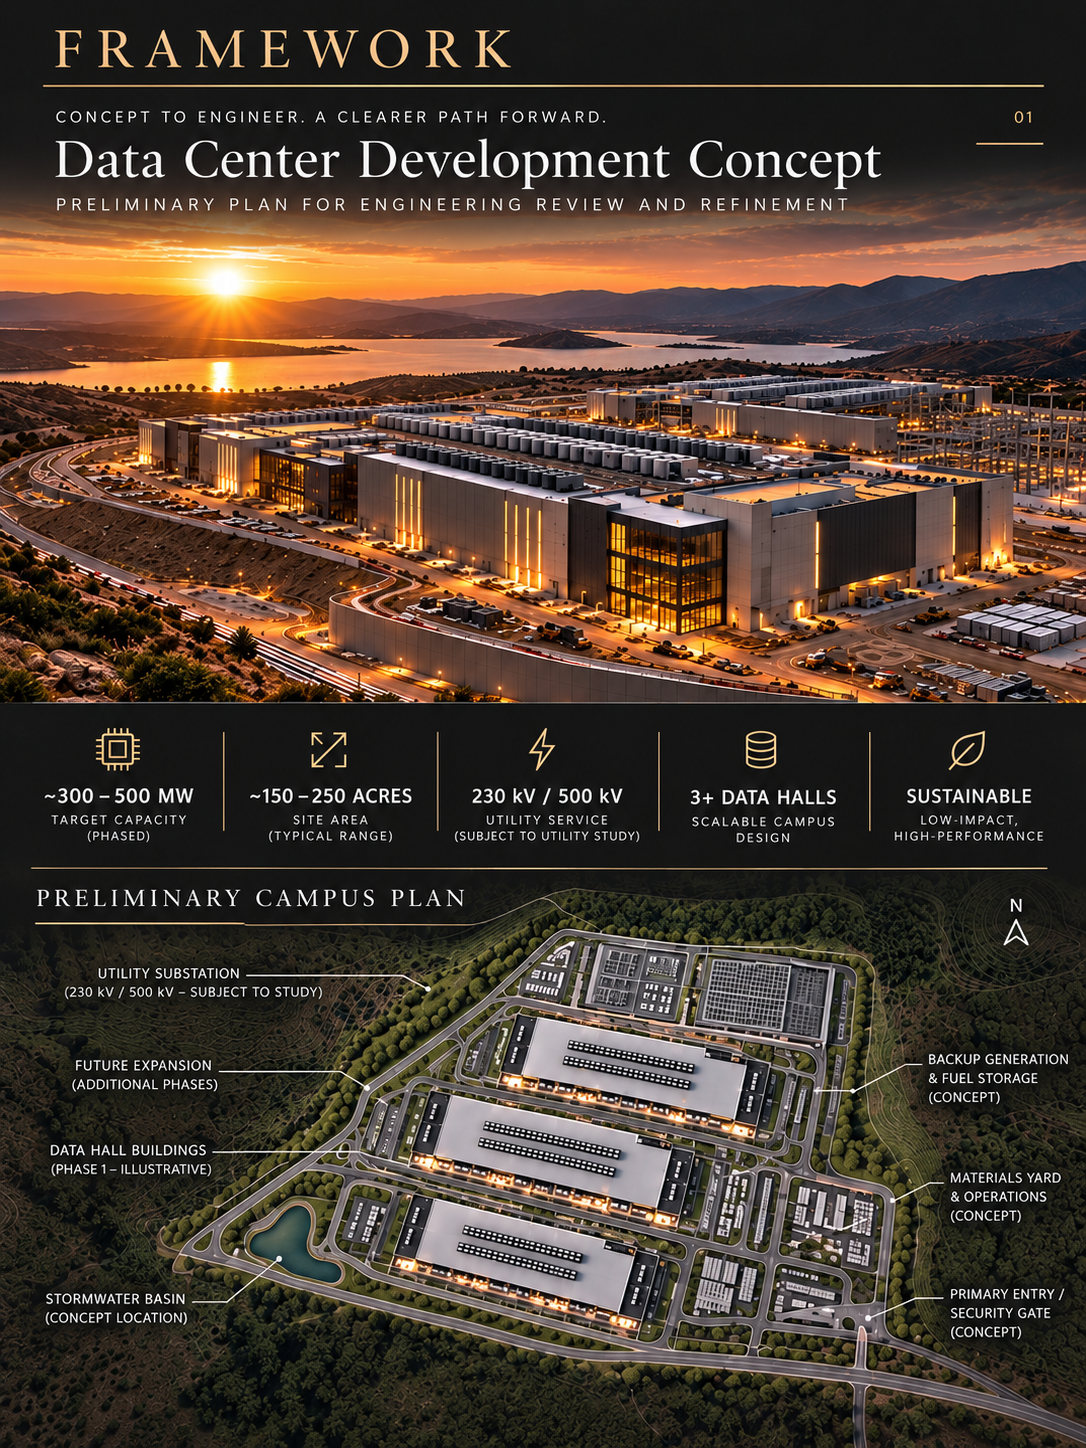
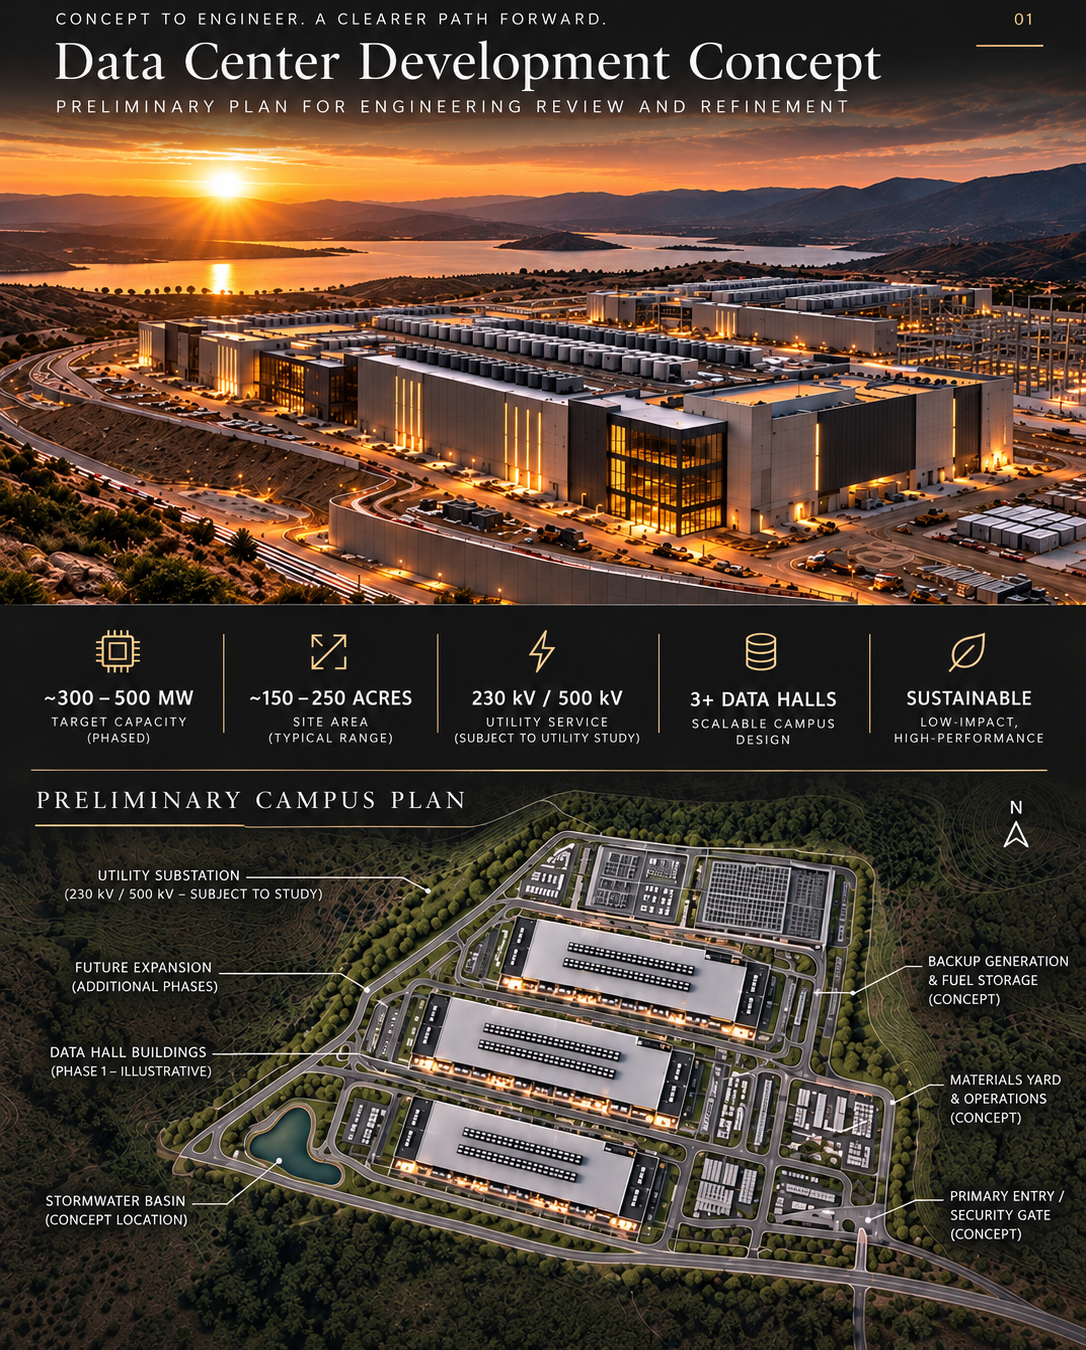
Crop Framework1 image and add section headings
Crop the redundant "FRAMEWORK" wordmark off the top of the Framework1
sample image (shared by the homepage and the Framework page), since
it's now replaced by live heading text: "Framework" / "Engineer ready
plans" above the image on both pages. Also add a small black
"Groundbreakable Intelligence" label above the homepage's Intelligence
preview section, matching the one already on intelligence.html.

diff --git a/index.html b/index.html
@@ -51,9 +51,30 @@
 
   .fw-sample{ padding:clamp(56px,8vw,96px) 32px; }
   .fw-sample-inner{ max-width:900px; margin:0 auto; }
+  .fw-sample-head{ text-align:center; margin:0 0 clamp(36px,5vw,56px); }
+  .fw-sample-title{
+    font-family:var(--serif);
+    font-weight:400;
+    font-size:clamp(34px,5vw,60px);
+    line-height:1.12;
+    letter-spacing:-0.01em;
+    color:var(--ink);
+    margin:0 0 14px;
+  }
+  .fw-sample-subtitle{ font-size:clamp(15px,1.6vw,18px); color:var(--ink-55); margin:0; }
   .fw-sample-figure{ margin:0 0 clamp(32px,5vw,56px); }
   .fw-sample-figure:last-child{ margin-bottom:0; }
   .fw-sample-figure img{ width:100%; height:auto; border-radius:var(--radius-sm); display:block; }
+
+  .intel-label{ background:var(--charcoal); padding:clamp(28px,4vw,40px) 32px; text-align:center; }
+  .intel-label p{
+    font-family:var(--serif);
+    font-weight:600;
+    font-size:clamp(18px,2vw,24px);
+    letter-spacing:-0.01em;
+    color:#FFFFFF;
+    margin:0;
+  }
 
   .intel-sample{ padding:clamp(56px,8vw,96px) 32px; }
   .intel-sample-inner{ max-width:1100px; margin:0 auto; }
@@ -161,13 +182,22 @@
   <!-- FRAMEWORK SAMPLE -->
   <section class="fw-sample">
     <div class="fw-sample-inner">
+      <div class="fw-sample-head reveal">
+        <h2 class="fw-sample-title">Framework</h2>
+        <p class="fw-sample-subtitle">Engineer ready plans</p>
+      </div>
       <figure class="fw-sample-figure reveal">
-        <img src="images/framework/framework-1.webp" width="1086" height="1448" loading="lazy" decoding="async" alt="Sample Groundbreakable Framework page: a data center development concept overview with target capacity, site area, utility service, and a preliminary campus plan">
+        <img src="images/framework/framework-1.webp" width="1086" height="1350" loading="lazy" decoding="async" alt="Sample Groundbreakable Framework page: a data center development concept overview with target capacity, site area, utility service, and a preliminary campus plan">
       </figure>
       <figure class="fw-sample-figure reveal">
         <img src="images/framework/framework-2.webp" width="1182" height="1330" loading="lazy" decoding="async" alt="Sample Groundbreakable Framework page: key elements and details including data hall plan, site section, material palette, campus context, key considerations, and next steps for engineer handoff">
       </figure>
     </div>
+  </section>
+
+  <!-- INTELLIGENCE LABEL -->
+  <section class="intel-label">
+    <p class="reveal">Groundbreakable Intelligence</p>
   </section>
 
   <!-- INTELLIGENCE PREVIEW -->

diff --git a/framework.html b/framework.html
@@ -34,6 +34,17 @@
 
   .fw-sample{ padding:clamp(56px,8vw,96px) 32px; }
   .fw-sample-inner{ max-width:1500px; margin:0 auto; }
+  .fw-sample-head{ text-align:center; margin:0 0 clamp(36px,5vw,56px); }
+  .fw-sample-title{
+    font-family:var(--serif);
+    font-weight:400;
+    font-size:clamp(34px,5vw,60px);
+    line-height:1.12;
+    letter-spacing:-0.01em;
+    color:var(--ink);
+    margin:0 0 14px;
+  }
+  .fw-sample-subtitle{ font-size:clamp(15px,1.6vw,18px); color:var(--ink-55); margin:0; }
   .fw-sample-figure{ margin:0 0 clamp(32px,5vw,56px); }
   .fw-sample-figure:last-child{ margin-bottom:0; }
   .fw-sample-figure img{ width:100%; height:auto; border-radius:var(--radius-sm); display:block; }
@@ -79,8 +90,12 @@
   <!-- FRAMEWORK SAMPLE -->
   <section class="fw-sample">
     <div class="fw-sample-inner">
+      <div class="fw-sample-head reveal">
+        <h1 class="fw-sample-title">Framework</h1>
+        <p class="fw-sample-subtitle">Engineer ready plans</p>
+      </div>
       <figure class="fw-sample-figure reveal">
-        <img src="images/framework/framework-1.webp" width="1086" height="1448" loading="eager" decoding="async" alt="Sample Groundbreakable Framework page: a data center development concept overview with target capacity, site area, utility service, and a preliminary campus plan">
+        <img src="images/framework/framework-1.webp" width="1086" height="1350" loading="eager" decoding="async" alt="Sample Groundbreakable Framework page: a data center development concept overview with target capacity, site area, utility service, and a preliminary campus plan">
       </figure>
       <figure class="fw-sample-figure reveal">
         <img src="images/framework/framework-2.webp" width="1182" height="1330" loading="lazy" decoding="async" alt="Sample Groundbreakable Framework page: key elements and details including data hall plan, site section, material palette, campus context, key considerations, and next steps for engineer handoff">
